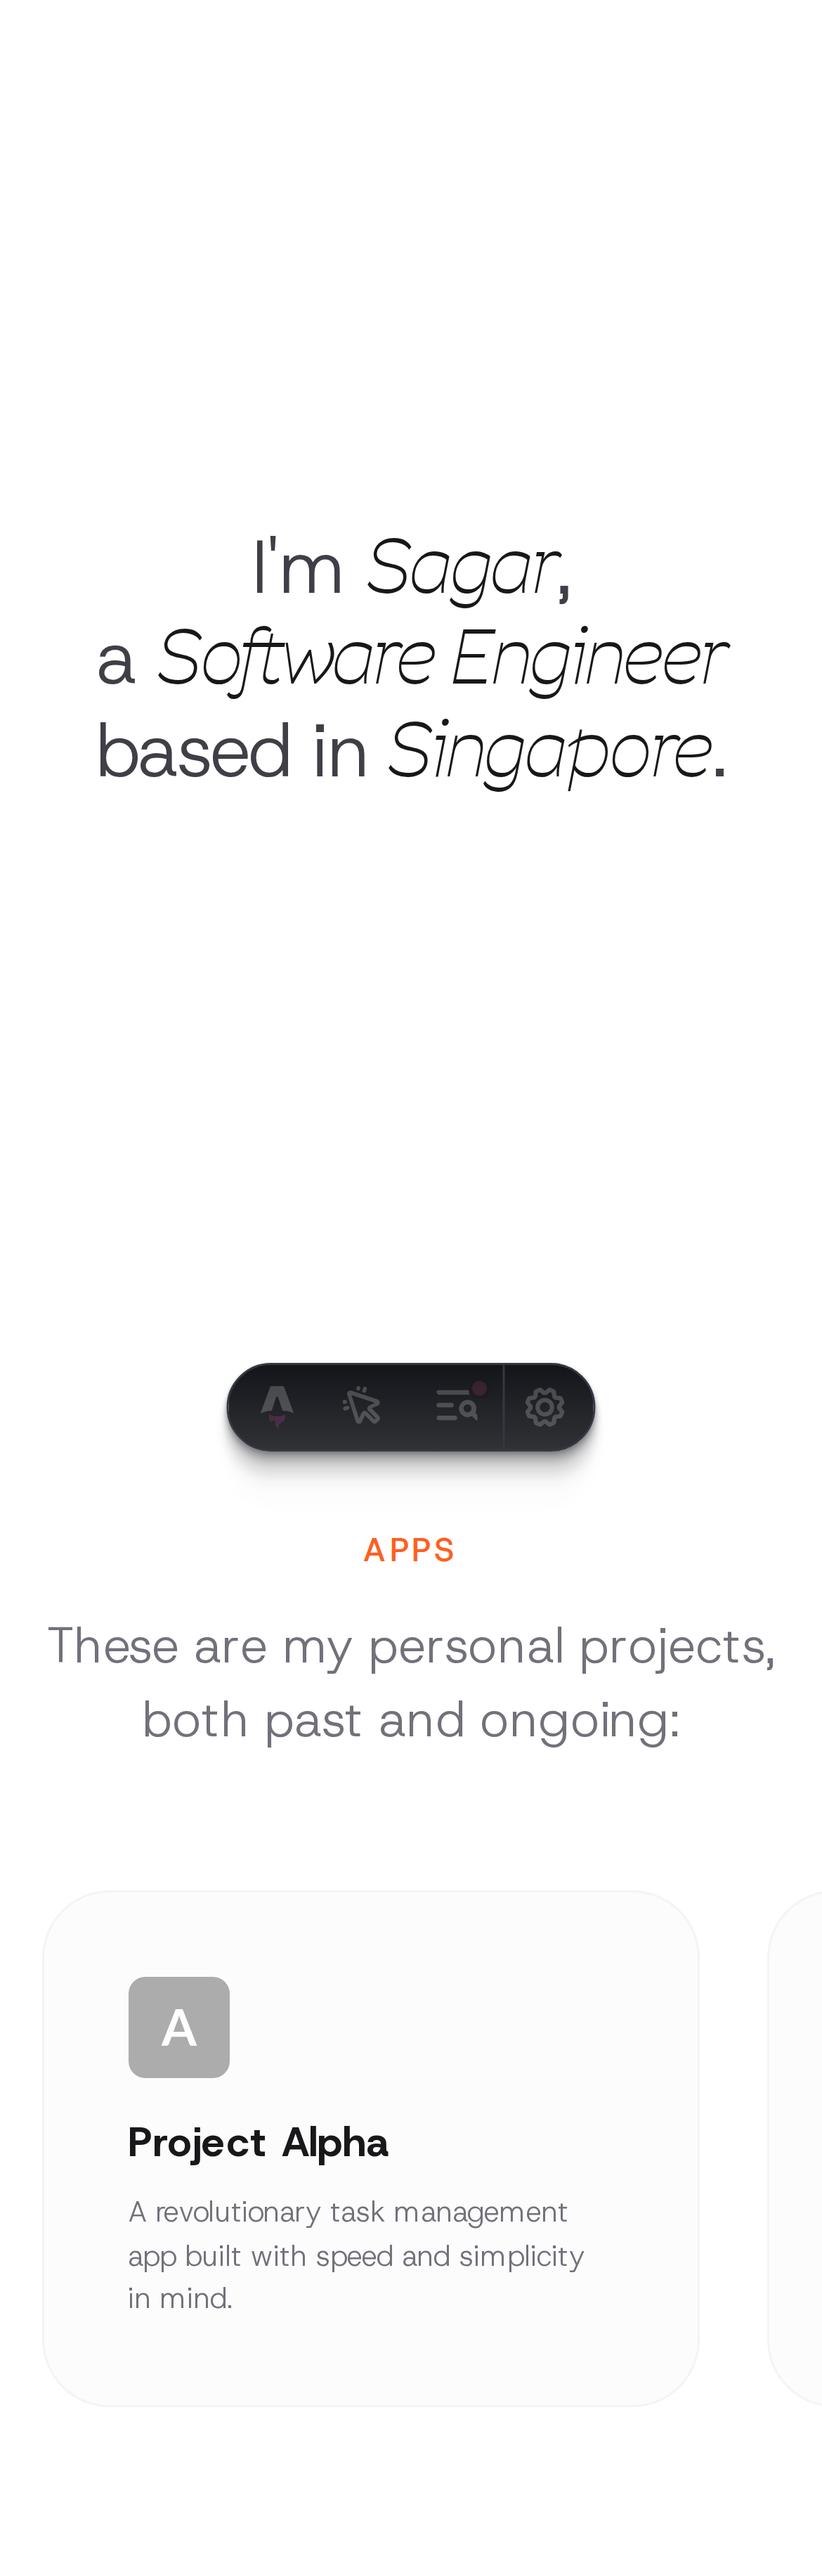
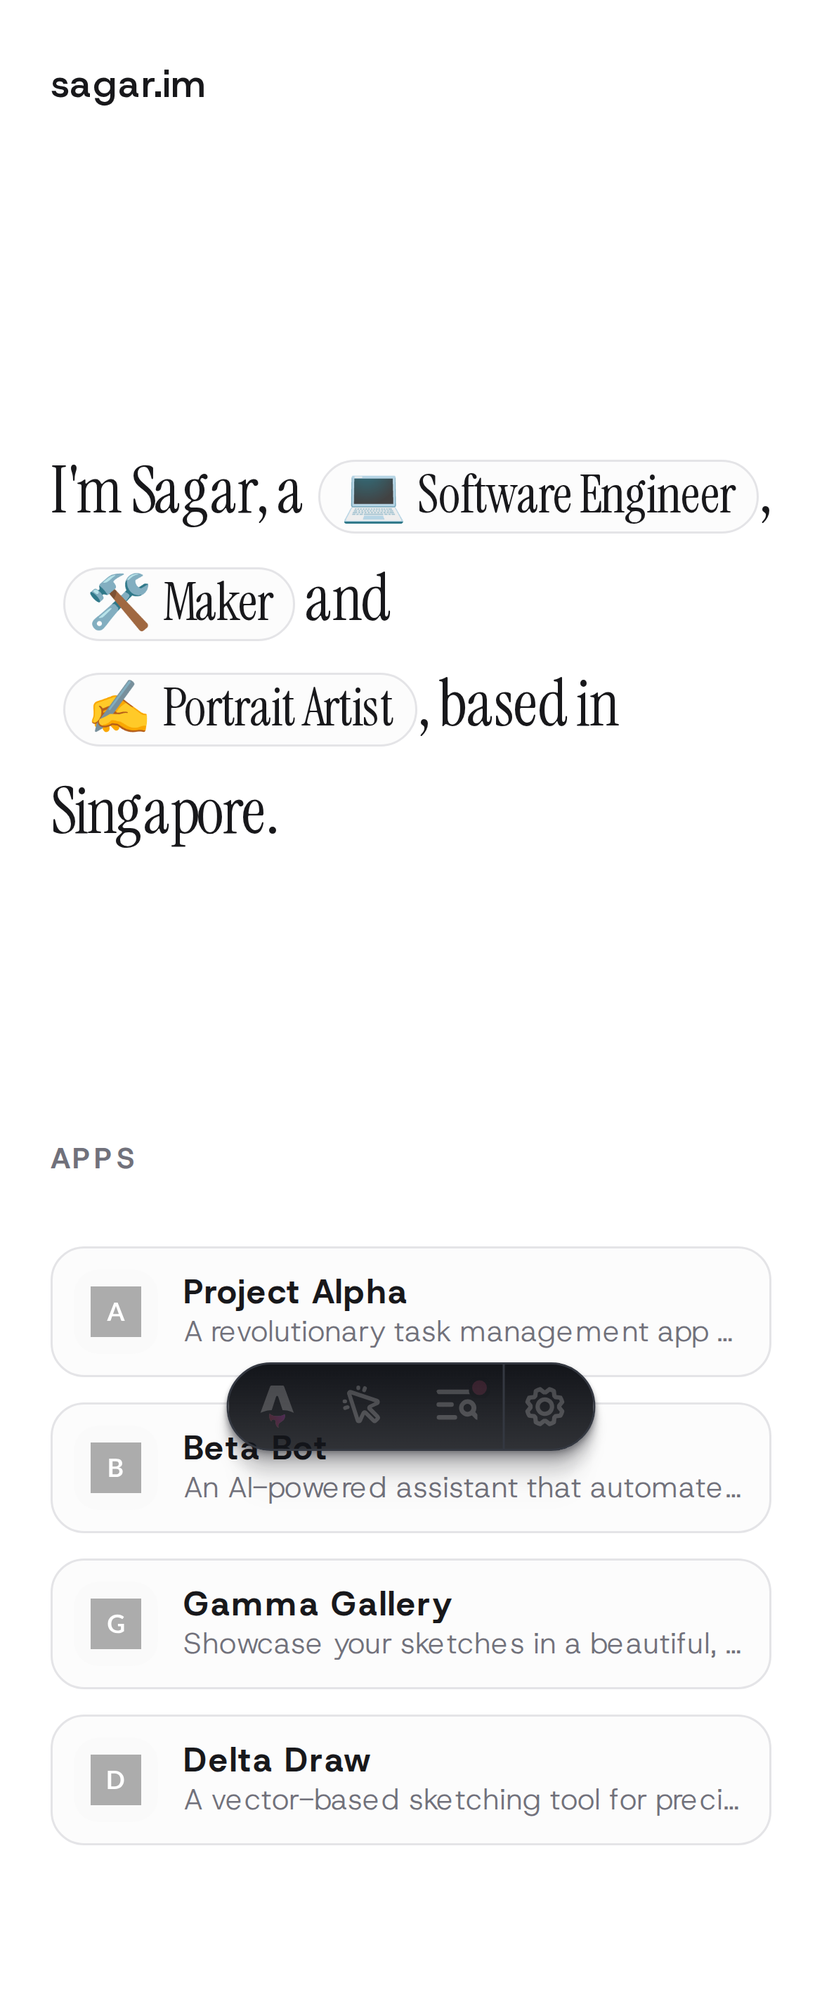
Hero design updates (#8)
* Finalize hero section design and typography

- Update hero title font size to 3vw on desktop.
- Switch hero font from Savate to Instrument Serif.
- Set hero title and italic text to font-thin (100 weight).
- Increase hero title line height to 1.2.
- Remove avatar image from the hero section.
- Remove typing animation and blinking cursor, making "Software Engineer" static.
- Update AGENTS.md documentation and visual screenshots.

* Refine hero section: update typography, remove avatar, and implement pill-based roles.

- Updated hero font to Instrument Serif (font-thin).
- Set desktop hero font size to 3vw and mobile to 8vw.
- Removed avatar image and typing animation.
- Replaced roles with inline-flex pills featuring emojis and light borders.
- Updated AGENTS.md to reflect new design patterns.
- Optimized layout for mobile responsiveness and clean punctuation.

* Refine hero section: update font size, remove avatar and typing animation, implement role pills

- Updated hero title font size to 3vw (desktop) and 8vw (mobile).
- Removed avatar image and client-side typing animation.
- Switched hero font to "Instrument Serif" with thin weight and zinc-900 color.
- Replaced text-based roles with emoji pills (border-zinc-200, bg-zinc-50).
- Removed all italic styling from the hero section.
- Optimized alignment and punctuation spacing using em-based padding and baseline alignment.
- Updated AGENTS.md and captured design changes in memory.
[…]

diff --git a/src/styles/global.css b/src/styles/global.css
@@ -1,7 +1,7 @@
 @import "tailwindcss";
 
 @theme {
-  --font-savate: "Savate", sans-serif;
+  --font-instrument: "Instrument Serif", serif;
   --font-host: "Host Grotesk", sans-serif;
   --color-primary: #ff5f1f;
 }

diff --git a/AGENTS.md b/AGENTS.md
@@ -11,10 +11,10 @@ This document contains key information and instructions for agents working on th
 ## Design & Typography
 - **Primary Theme:** Light mode only (white background, dark zinc-900 text) with bright orange brand color (`#ff5f1f`).
 - **Typography:**
-  - Headings: 'Savate' (Thin/100 weight, selective italics).
+  - Headings: 'Instrument Serif' (No italics, font-thin).
   - Body: 'Host Grotesk'.
 - **Responsive Design:** Uses fluid typography with `vw` units.
-- **Hero Section:** Minimalist design, `min-h-screen`, centered avatar, and a rotating 'Open for projects' badge.
+- **Hero Section:** Minimalist design, left-aligned hero title with vertical spacing.
 
 ## Content Management
 - **Content Collections:** Located in `src/content/`. Apps are managed as individual Markdown files in `src/content/apps/`.
